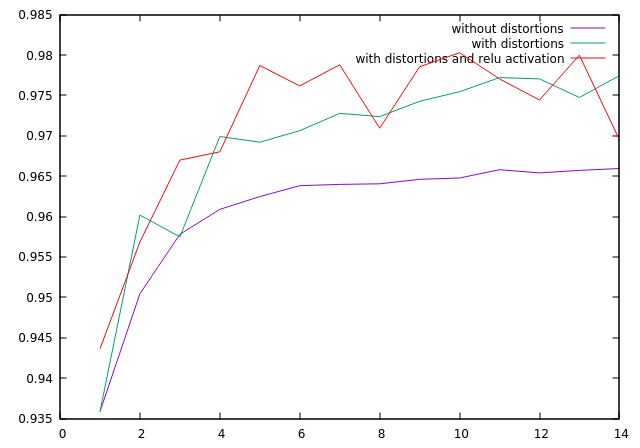
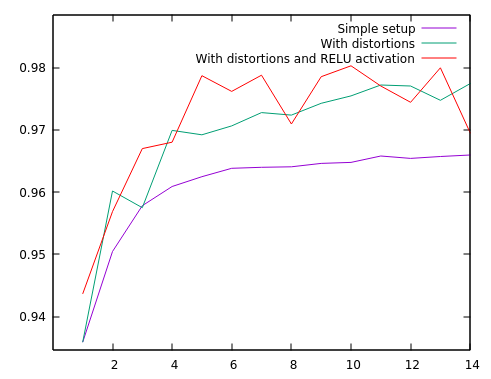
Added section about GTSRB with RELU activation

Changed region(s): [[0.0305, 0.0, 1.0, 0.9868]]

diff --git a/doc/documentation_mielers_schroer.tex b/doc/documentation_mielers_schroer.tex
@@ -168,11 +168,11 @@ The GTSRB dataset described in \cite{gtsrb} is a collection of $39209$ images in
 \subsection{Simple setup}
 \label{subsec:simplesetup}
 %TODO fix epoch count
-A network was trained on all images of the training set for $10$ epochs. On a TODO CPU with TODO RAM, one epochs takes abount 10 hours. The performance development over the epochs is visualized in figure \ref{fig:gtsrb-results}, and the accuracy is given in a table. After achieving $0.9359$ after the first epoch, it rises monotonically and starts to levels off near $0.9640$ after about 6 epochs.
+A network was trained on all images of the training set for $10$ epochs. On a TODO CPU with TODO RAM, one epochs takes about 10 hours. The performance development over the epochs is visualized in figure \ref{fig:gtsrb-results}, and the accuracy is given in a table. After achieving $\approx 0.9359$ after the first epoch, it rises monotonically and starts to levels off near $\approx 0.9640$ after about 6 epochs.
 
 \begin{figure}[h!]
 	\centering
-	\includegraphics[width=1\textwidth]{gtsrb_results}
+	\includegraphics{gtsrb_results}
 	%TODO more epochs in table
 	\begin{tabular}{|l|lllllll|}
 		\hline
@@ -217,12 +217,24 @@ The filters on the higher layers are not so easy to reason about. They have less
 \subsection{Input distortions}
 An additional technique used in \cite{multi-column-neural-network-gtsrb} is the distortion of input data. In order to help the network generalize better from the given training set, slight distortions were applied to each input image between epochs. These distortions comprise rotation, scaling and translation. The details are found in section \ref{sec:implementation-distortions}.
 
-As one can see in figure \ref{fig:gtsrb-results}, this significantly boosted the performance. After 14 epochs, the network that was trained on the distorted images achieved a success rate about $1.1$\% higher, with an accuracy of $0.9774$\%. Overall, the curve is a bit more volatile than the one without distortions. This might indicate that the distortions influence the network quite strongly and weaker transformation parameters may lead to steadier learning, but more training rounds would be neccessary to be certain of this.
+As one can see in figure \ref{fig:gtsrb-results}, this significantly boosted the performance. After 14 epochs, the network that was trained on the distorted images achieved a success rate about $1.1$\% higher, with an accuracy of $\approx 0.9774$\%. Overall, the curve is a bit more volatile than the one without distortions. This might indicate that the distortions influence the network quite strongly and weaker transformation parameters may lead to steadier learning, but more training rounds would be neccessary to be certain of this.
 
 Visual inspection of the convolutional filters shows that they are not qualitatively different from those in \ref{fig:gtsrb-filters}. As before, the first layer exhibits a visible spatial structure with regions of high and low values. Their shape suggests their role as edge and corner detectors. Again, the filters for all 3 channels share their general appearance, suggesting mostly color independence. On the other convolutional layers, the possibility of visual interpretation is small, just as before.
 
-% Morphen vs. nicht morphen
-% Relu
+\subsection{RELU activation function}
+The layers in \cite{multi-column-neural-network-gtsrb} used a $\tanh$ activation function. For performance reasons the RELU activation function, as shown in figure \ref{fig:relu} is often used as a fast-to-compute alternative that yields good results.
+
+\begin{figure}[h!!!]
+	\centering
+	\includegraphics{images/relu.png}
+	\caption{RELU activation function}
+	\label{fig:relu}
+\end{figure}
+
+To examine the influence of the choice of activation function, we trained the same network from table \ref{tab:network-layout} from the ground up. The only difference to the old network was the usage of the RELU activation function instead of $\tanh$. Since distortions proved effective, they were again used in this training run. The accuracy over 14 epochs is shown in figure \ref{fig:gtsrb-results}.
+
+One can observe that this network accomplishes a considerably higher performance than the one with the original $\tanh$ activation function at certain points. The $\tanh$ network reaches its peak of $\approx 0.9774$\% accuracy after 14 epochs, while the RELU network peaks at $\approx 0.9803$ after 10 epochs. However, its behavior over the course of training is much more volatile. Epochs where the performance is superior to the $\tanh$ network are interspersed with drops below $\tanh$ performance. More trials would be neccessary to be sure, but it seems that a RELU activation behaves less predictable during training.
+
 % Misclassified images
 
 \section{Filter reuse}
